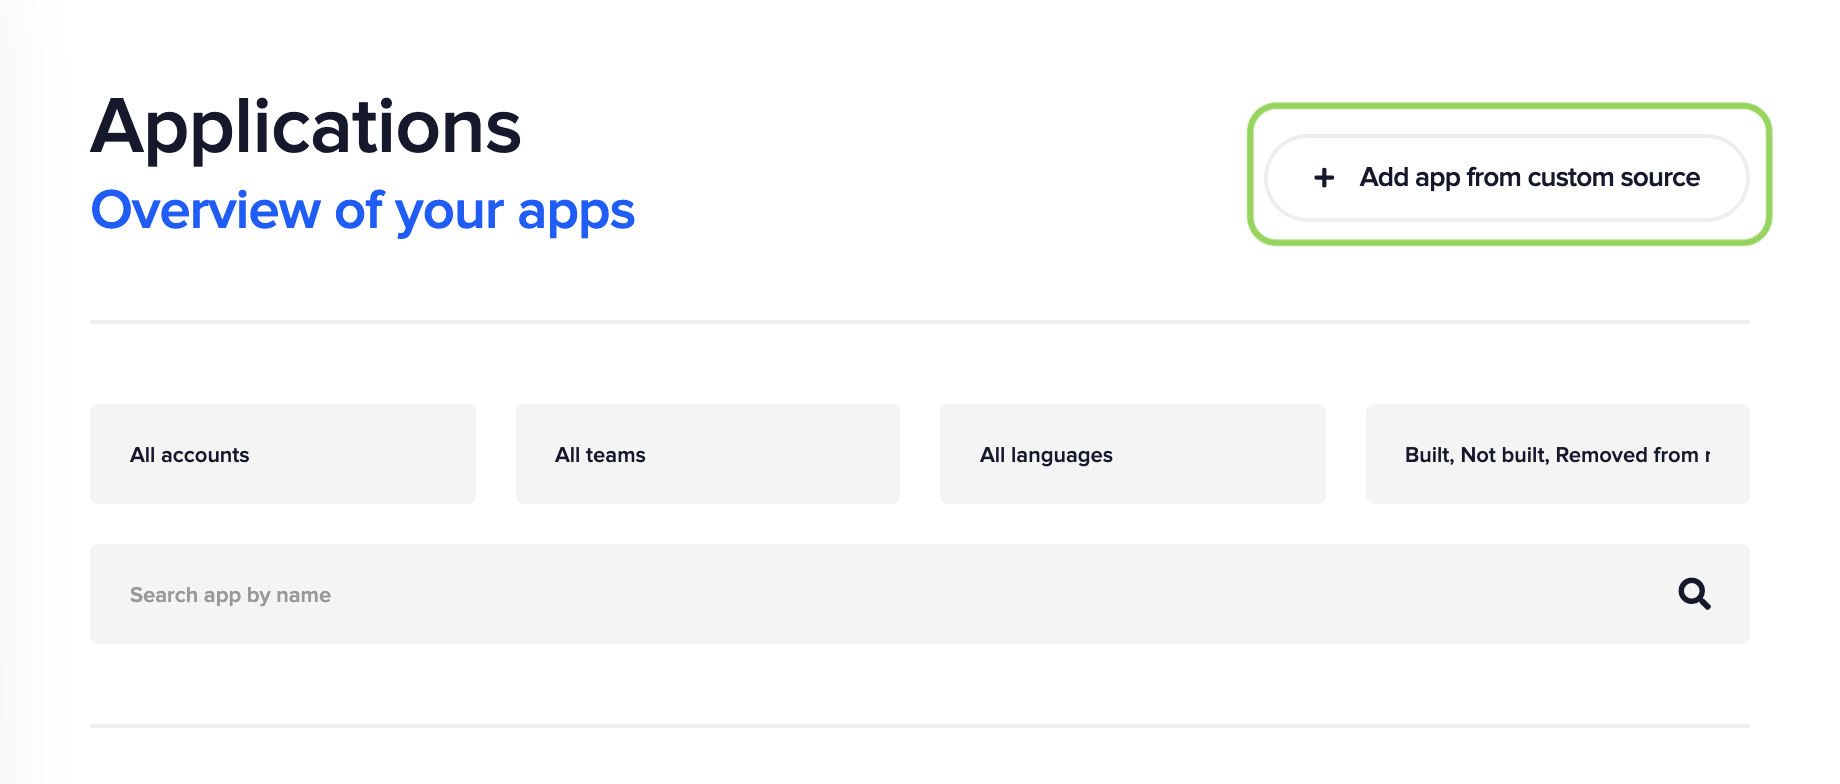
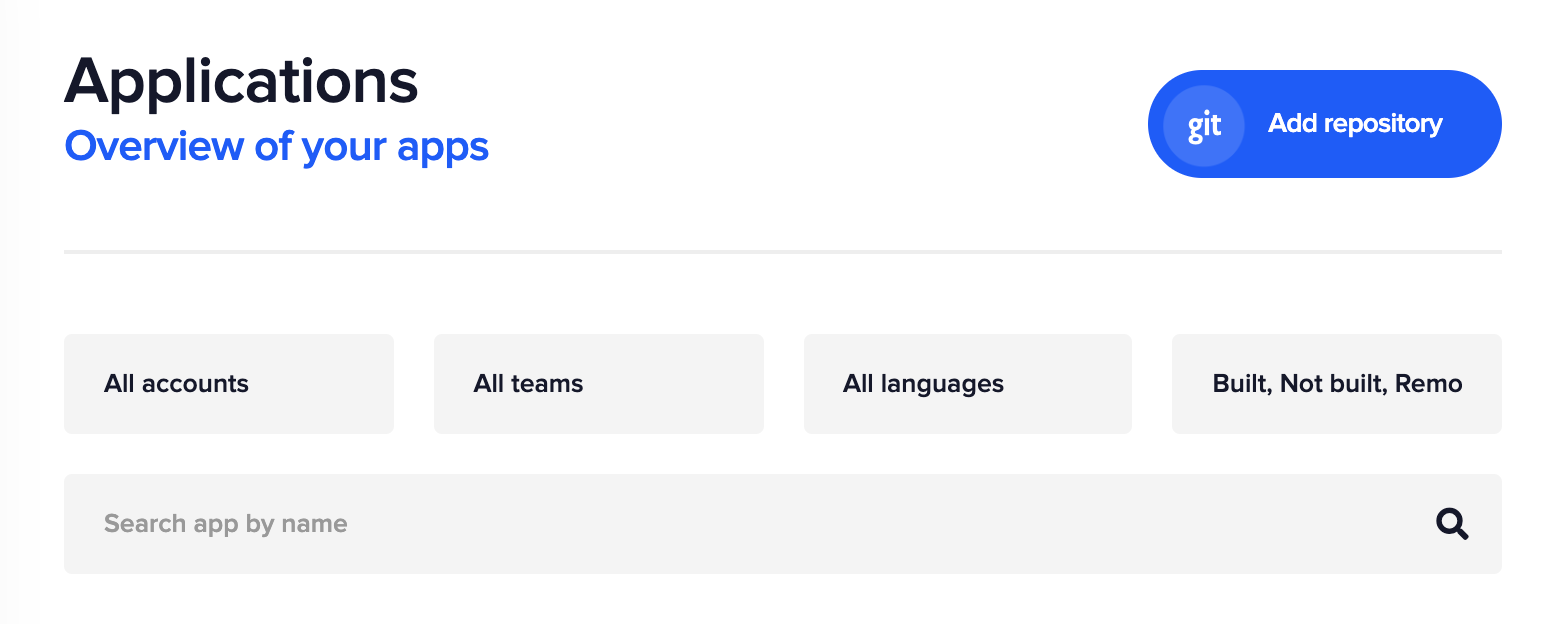
Update copy and screenshot for custom repository

diff --git a/content/getting-started/adding-apps-from-custom-sources.md b/content/getting-started/adding-apps-from-custom-sources.md
@@ -4,22 +4,24 @@ title: Adding repositories
 weight: 2
 ---
 
-When you sign up via OAuth, Codemagic already has access to the repositories you have available on your Git provider account. However, you can add apps from public or private as well as from cloud-based or self-hosted Git repositories. 
+When you sign up via OAuth, Codemagic already has access to the repositories you have available on your Git provider account. However, you can add apps from public or private as well as from cloud-based or self-hosted Git repositories.
 
 {{<notebox>}}
-* Note that webhooks for automatic build triggering need to be [created manually](../building/webhooks).
-{{</notebox>}}
+
+- Note that webhooks for automatic build triggering need to be [created manually](../building/webhooks).
+  {{</notebox>}}
 
 ## Connecting repository via SSH
 
-1. Click **Add app from custom source** on the Applications page.
+1. Click **Add repository** on the Applications page.
 
-    {{< figure size="medium" src="../uploads/add-app-from-custom-source1.png" caption="" >}}
+   {{< figure size="medium" src="../uploads/add-app-from-custom-source1.png" caption="" >}}
 
-2. Enter the **Repository URL** for **cloning** the repository. Usually, the URL is in this format: ` git@example.com:username/repo.git `.
-3. Upload the **SSH private key** file. If your key is password-protected, enter the **Private key passphrase**. 
+2. Enter the **Repository URL** for **cloning** the repository. Usually, the URL is in this format: `git@example.com:username/repo.git`.
+3. Upload the **SSH private key** file. If your key is password-protected, enter the **Private key passphrase**.
 
-    **Alternatively**, you can click **Generate key pair** and have Codemagic create an SSH key pair for you, read more about it [below](#generating-a-key-pair-in-codemagic).
+   **Alternatively**, you can click **Generate key pair** and have Codemagic create an SSH key pair for you, read more about it [below](#generating-a-key-pair-in-codemagic).
+
 4. Click **Add application**.
 
 You can then continue configuring your project by selecting a starter workflow.
@@ -30,19 +32,19 @@ You can then continue configuring your project by selecting a starter workflow.
 
 On clicking **Generate key pair**, Codemagic creates a secure 4096 bit SSH key pair. The private key will be used in Codemagic and the public key must be added to your repository settings. Click **Copy to clipboard** to copy the public key.
 
-* If your repository is hosted on [GitHub](https://developer.github.com/v3/guides/managing-deploy-keys/#setup-2), [GitLab](https://www.deployhq.com/support/projects/updating-your-project-repository/uploading-your-public-key-to-gitlab-manually) or [Bitbucket](https://confluence.atlassian.com/bitbucket/use-access-keys-294486051.html), add the public key to your repository's access/deployment keys.
-* For self-hosted repositories, request your git server admins to allow access for the provided public key.
+- If your repository is hosted on [GitHub](https://developer.github.com/v3/guides/managing-deploy-keys/#setup-2), [GitLab](https://www.deployhq.com/support/projects/updating-your-project-repository/uploading-your-public-key-to-gitlab-manually) or [Bitbucket](https://confluence.atlassian.com/bitbucket/use-access-keys-294486051.html), add the public key to your repository's access/deployment keys.
+- For self-hosted repositories, request your git server admins to allow access for the provided public key.
 
-After you have added the public key to your repository settings, finish adding the app by clicking **Add application**.
+After you have added the public key to your repository settings, finish adding the app by clicking **Add repository**.
 
-{{<notebox>}}Don't close the **Add application from custom source** module before you have finished adding the app, otherwise you'll need to start over and generate a new SSH key.{{</notebox>}}
+{{<notebox>}}Don't close the **Add repository** module before you have finished adding the app, otherwise you'll need to start over and generate a new SSH key.{{</notebox>}}
 
 ## Connecting repository via HTTP/HTTPS
 
 1. Click **Add repository** on the Applications page.
 2. Enter the **Repository URL** for **cloning** the repository. You can find the URL from your repository on clicking **Clone** / **Clone or download**. Usually, the URL is in this format: `https://example.com/path/to/repository.git`.
 3. If your repository is private, then enter your **Username** and **Password**. In the case of a public repository, check **Public repository**.
-4. Click **Add application**.
+4. Click **Add repository**.
 
 Your app will be then listed on the Applications page and you can then continue configuring your project by clicking on **Configure for building**.
 
